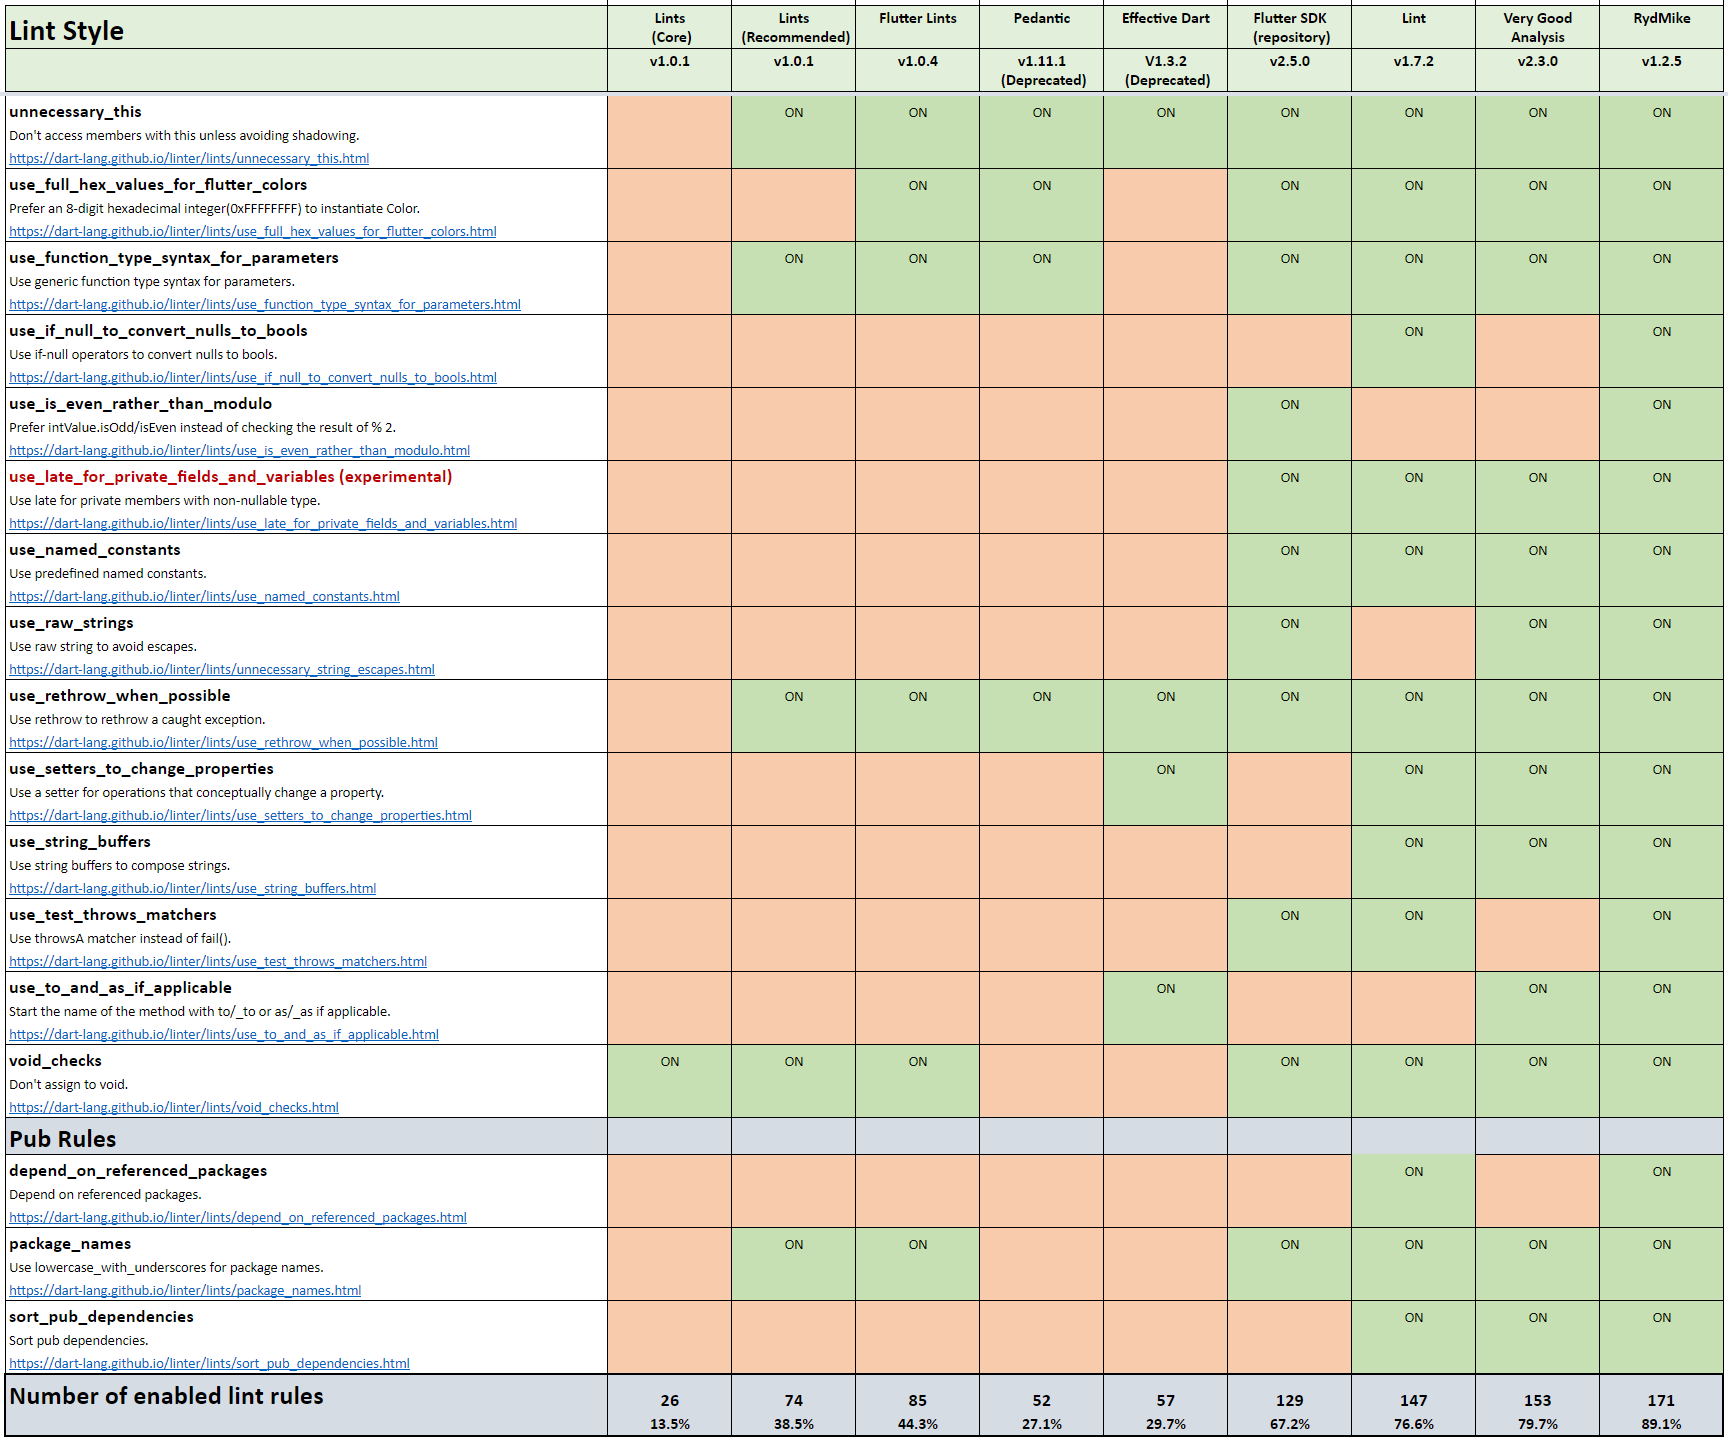
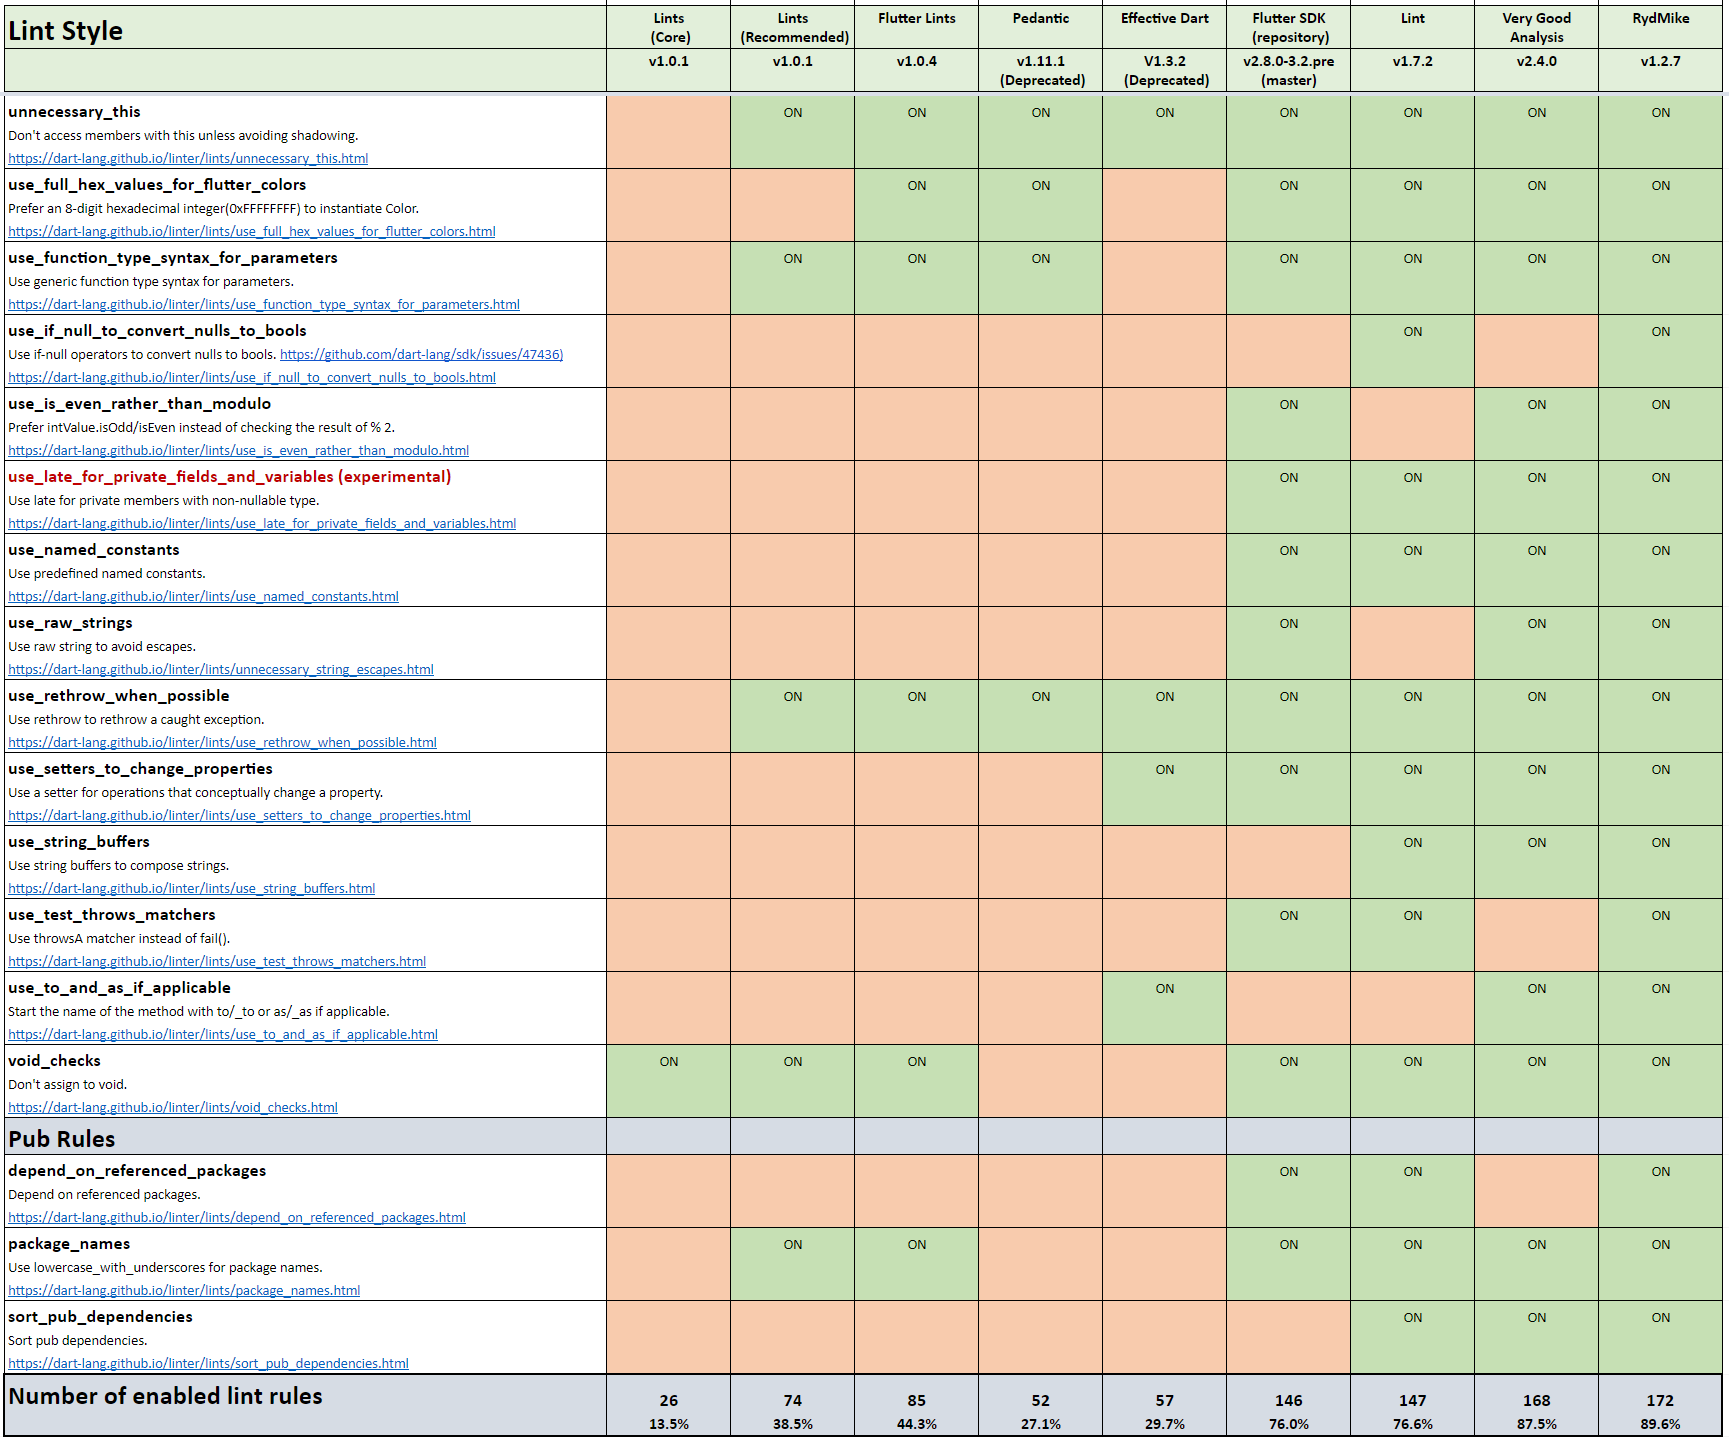
Linting blog update, color scheme page update

diff --git a/blog_flutter_linting.md b/blog_flutter_linting.md
@@ -2,7 +2,7 @@
 | [Talo](talo)                | [Grid](gridview)     | [Issues](issues)           | [Blog](blog)               |
 
 # Flutter Linting Comparison
-*(Published July 28, 2021, Updated September 10, 2021)*
+*(Published July 28, 2021, Updated November 23, 2021)*
 
 Dart and Flutter linting is important, if you have not used it before it is a good idea to start now.
 At the end of this article I also present a comparison of different popular lint packages and the
@@ -55,10 +55,15 @@ My `analysis_options.yaml` file starts like this:
 
 
 ```yaml
-# RydMike LINTER Preferences v1.2.5
-# Gist: https://gist.github.com/rydmike/fdb53ddd933c37d20e6f3188a936cd4c
-# Include and activate all lint rules, later below we disable the not used or desired ones.
-# For a comparison of all lint rules settings in rule style listed below, please see this
+# RydMike LINTER Preferences v1.2.7
+#
+# Get this file here: https://gist.github.com/rydmike/fdb53ddd933c37d20e6f3188a936cd4c
+#
+# We include and activate all lint rules, later below we disable the not used or desired ones.
+# You can find a list of all lint rules to put in your all_lint_rules.yaml file here:
+# https://dart-lang.github.io/linter/lints/options/options.html
+#
+# For a full comparison of all lint rules settings in rule styles listed below, please see this
 # sheet: https://docs.google.com/spreadsheets/d/1Nc1gFjmCOMubWZD7f2E4fLhWN7LYaOE__tsA7bf2NjA
 include: all_lint_rules.yaml
 analyzer:
@@ -263,7 +268,7 @@ then they really should be.
 ## Which Lint Package Should I Use?
 
 If I want to use a package, which lint package should I use?
-Answering this question recently got a lot easier. First, both the package
+Answering this question got a lot easier with Flutter 2.5. First, both the package
 [Effective Dart](https://pub.dev/packages/effective_dart) and [Pedantic](https://pub.dev/packages/pedantic)
 have been deprecated. For a new project I do not recommend them anymore. 
 Pedantic was from Google mostly for internal use. Despite its name, it was not very strict nor pedantic,
@@ -305,8 +310,8 @@ projects, there is no sense in recommending any other linter package than
 
 All that being said, as long as [Lint](https://pub.dev/packages/lint) or 
 [Very Good Analysis](https://pub.dev/packages/very_good_analysis) 
-have not been deprecated, and you are used to them, or already using them, or just prefer them, 
-they are still perfectly good choices as well. 
+have not been deprecated, and you are using them, or just prefer them, 
+they are both very solid choices as well. 
 
 They both enable more and even stricter lint rules than the new default **flutter_lints**. Both **lint** and 
 **very_good_analysis** use strong mode and disable implicits casts, and Very Good Analysis also
@@ -316,17 +321,23 @@ a wise and welcome addition.
 
 The **lint** package includes excellent reasoning documentation for its lint rule choices 
 in the source, allowing you to read and understand the author's rationale for the used
-choices. It also comes with a variant for packages, adding a few useful rules for
+choices. It also comes with a variant for packages, adding a few more useful rules for
 public packages.
 
-Out of packaged linters **very_good_analysis**, starting from version 2.3.0 enables 
-the most rules of the compared packaged linters. With 79.7% of available lint rules enabled, 
+Out of packaged linters **very_good_analysis**, in version 2.4.0 enables 
+the most rules of the compared packaged linters. With 87.5% of available lint rules enabled, 
 it is the most strict and "pedantic" of the compared packaged linters, at least
 if we exclude my own custom setup from the comparison. My personal choice for
-a packaged linter would be **very_good_analysis**, but that is because I like its very
-strict. The **lint** package is not far behind, with its recent 1.7.2 version 
-it is at 72.9% of rules enabled. Close call, and the differences are not big.
+a packaged linter would be **very_good_analysis**, but that is because I like it very
+strict. The **lint** package is not far behind, with its 1.7.2 version 
+it is at 72.9% of rules enabled.
 You can use my comparison table to compare them all and each rule setting.
+
+I also find it interesting to follow what lint rules the Flutter SDK repo uses.
+Recently there has been many new rules enabled in the Flutter SDK as well.
+In the previous version (1.4.0) of the comparison table from September 10, 2021, to the
+current one (1.5.0), the Flutter repo (master channel) has gone from 129 to 146 enabled
+lint rules.
 
 If you want to stay on top of your linting rule setup yourself, then do as I do. 
 Roll your own linting rule setup. Mostly I do this to use even stricter lint rules than current 
@@ -342,7 +353,7 @@ walk the narrow and strict path with [Very Good Analysis](https://pub.dev/packag
 or [Lint](https://pub.dev/packages/lint).
 
 If you don't care about linting and tuning it yourself, the really nice part is that a good 
-linting setup is now part of Flutter. Starting from version 2.5.0 you will 
+basic linting setup is now part of Flutter. Starting from version 2.5.0 you will 
 get an excellent rule set enabled by default for new projects. It is a really cool
 and a smart move by the Dart and Flutter teams to offer this. It means that eventually 
 all Flutter developers will use more strict lint rules by default, rules that will help 
@@ -354,20 +365,24 @@ What are the lint rule differences between all these packages? That is a **very*
 I guess I saved the most interesting part for last. I was very curious about this as well, so I went 
 through **all** the lint settings for the following lint packages and setups:
 
-| Lint style   | Used rules             |  % |
-| ----         | ----                   | ---- |
-|[Dart Core *(v1.0.1)*](https://pub.dev/packages/lint) | 26 | 13.5%|
-|[Dart Recommended *(v1.0.1)*](https://pub.dev/packages/lints) | 74 | 38.5% |    
-|[Flutter lints *(v1.0.4)*](https://pub.dev/packages/flutter_lints) | 85 | 44.3% |  
-|[Pedantic *(v1.11.1) (Deprecated)*](https://pub.dev/packages/pedantic) | 52 | 27.1% |
-|[Effective Dart *(v1.3.2) (Deprecated)*](https://pub.dev/packages/effective_dart) | 57 | 29.7% |
-|[Flutter SDK repository *(v2.5.0)*](https://github.com/flutter/flutter/blob/master/analysis_options.yaml) | 129 | 67.2% |
-|[Lint *(v1.7.2)*](https://pub.dev/packages/lint) | 147 | 76.6% |
-|[Very Good Analysis *(v2.3.0)*](https://pub.dev/packages/very_good_analysis) | 153 | 79.7% |
-|[RydMike - All ON, then turn a few OFF *(v1.2.5)*](https://gist.github.com/rydmike/fdb53ddd933c37d20e6f3188a936cd4c) | 171 | 89.1%|
-|[All LINT rules](https://dart-lang.github.io/linter/lints/options/options.html) | 192 | 100.0% |
+| Lint style   | Previous             |  % of rules | Used now | +/- | % of rules |
+| ----         | ----                   | ---- | ---- | ---- |  ---- |
+|[Dart Core *(v1.0.1)*](https://pub.dev/packages/lints) | 26 | 13.5%| 26 | 0 | 13.5% |
+|[Dart Recommended *(v1.0.1)*](https://pub.dev/packages/lints) | 74 | 38.5% | 74 | 0 | 38.5% |    
+|[Flutter lints *(v1.0.4)*](https://pub.dev/packages/flutter_lints) | 85 | 44.3% | 85 | 0 | 44.3 % | 
+|[Pedantic *(v1.11.1) (Deprecated)*](https://pub.dev/packages/pedantic) | 52 | 27.1% | 52 | 0 | 27.1% |
+|[Effective Dart *(v1.3.2) (Deprecated)*](https://pub.dev/packages/effective_dart) | 57 | 29.7% | 57 | 0 | 29.7% |
+|[Flutter SDK repository *(v2.8.0-3.2)*](https://github.com/flutter/flutter/blob/master/analysis_options.yaml) | 129 | 67.2% | 146 | +17 | 76.0% | 
+|[Lint *(v1.7.2)*](https://pub.dev/packages/lint) | 147 | 76.6% | 147 | 0 | 76.6% |
+|[Very Good Analysis *(v2.4.0)*](https://pub.dev/packages/very_good_analysis) | 153 | 79.7% | 168 | +15 | 87.5% |
+|[RydMike - All ON, then turn OFF some *(v1.2.7)*](https://gist.github.com/rydmike/fdb53ddd933c37d20e6f3188a936cd4c) | 171 | 89.1%| 172 | +1 | 89.6% |
+|[All LINT rules](https://dart-lang.github.io/linter/lints/options/options.html) | 192 | 100.0% | 192 | 0 | 100.0% |
 
-Enough talk, here is the comparison in a [**Google Sheet**](https://docs.google.com/spreadsheets/d/1Nc1gFjmCOMubWZD7f2E4fLhWN7LYaOE__tsA7bf2NjA), enjoy!
+The "previous" values refer to the number of enabled lint rules in comparison table version 1.4.0 from 
+September 10, 2021, and "used now" to the latest lint rules in comparison table, 
+version 1.5.0 updated November 23, 2021.
+
+Here is the full comparison in a [**Google Sheet**](https://docs.google.com/spreadsheets/d/1Nc1gFjmCOMubWZD7f2E4fLhWN7LYaOE__tsA7bf2NjA), enjoy!
 
 [<img src="https://rydmike.com/assets/lint_compare.png?raw=true" alt="lint_compare"/>](https://docs.google.com/spreadsheets/d/1Nc1gFjmCOMubWZD7f2E4fLhWN7LYaOE__tsA7bf2NjA)
 
@@ -375,4 +390,4 @@ Enough talk, here is the comparison in a [**Google Sheet**](https://docs.google.
 notice any, please let me know, and I will update it. You can find me on [Twitter](https://twitter.com/RydMike)*
 
 ---
-*(Page updated September 10, 2021)*
+*(Page updated November 23, 2021)*

diff --git a/colorscheme.md b/colorscheme.md
@@ -7,6 +7,24 @@
 surfaces. The created themes are based on the same concept as Flutter's **ColorScheme** based themes,
 but with a few interesting twists and additional features.
 
+> ### This article is based on FlexColorScheme V3
+> The documentation included in the readme for FlexColorScheme V4 package on 
+> [pub.dev](https://pub.dev/packages/flex_color_scheme)
+> contains similar and updated information for version 4. The features described here
+> are still valid for version 4, but it also has additional new features and
+> all its bundled examples have been updated. The links to the live examples further below
+> are to the FlexColorScheme version 3 examples. For links to version 4 examples please refer
+> to the package readme or use these links:
+> 
+> #### FlexColorScheme Version 4 Live Examples
+> [Example 1 - Basic Themes Usage](https://rydmike.com/flexcolorschemeV4Tut1/#/)  
+> [Example 2 - Custom Theme](https://rydmike.com/flexcolorschemeV4Tut2/#/)  
+> [Example 3 - Four Themes](https://rydmike.com/flexcolorschemeV4Tut3/#/)  
+> [Example 4 - All Themes](https://rydmike.com/flexcolorschemeV4Tut4/#/)  
+> [Example 5 - Themes Playground](https://rydmike.com/flexcolorschemeV4Tut5/#/)
+> 
+> This article will be updated later with newer version 4 information as well.
+
 **FlexColorScheme** is available on **pub.dev** as a [**Flutter package**](https://pub.dev/packages/flex_color_scheme).
 
 <img src="https://rydmike.com/assets_fcsv4/CollageSize50.png?raw=true" alt="ColorScheme Intro"/>
@@ -333,10 +351,10 @@ Below you will find all the light theme mode color schemes, with the scheme colo
 <img src="https://rydmike.com/assets/LightScheme030.png?raw=true" alt="light 30" width="200"/>
 <img src="https://rydmike.com/assets/LightScheme031.png?raw=true" alt="light 31" width="200"/>
 <img src="https://rydmike.com/assets/LightScheme032.png?raw=true" alt="light 32" width="200"/>
-<img src="https://rydmike.com/assets/LightScheme033.png?raw=true" alt="light 32" width="200"/>
-<img src="https://rydmike.com/assets/LightScheme034.png?raw=true" alt="light 32" width="200"/>
-<img src="https://rydmike.com/assets/LightScheme035.png?raw=true" alt="light 32" width="200"/>
-<img src="https://rydmike.com/assets/LightScheme036.png?raw=true" alt="light 32" width="200"/>
+<img src="https://rydmike.com/assets/LightScheme033.png?raw=true" alt="light 33" width="200"/>
+<img src="https://rydmike.com/assets/LightScheme034.png?raw=true" alt="light 34" width="200"/>
+<img src="https://rydmike.com/assets/LightScheme035.png?raw=true" alt="light 35" width="200"/>
+<img src="https://rydmike.com/assets/LightScheme036.png?raw=true" alt="light 36" width="200"/>
 
 ### Dark Mode Color Schemes
 
@@ -374,15 +392,15 @@ Below you will find all the dark theme mode color schemes, with the scheme color
 <img src="https://rydmike.com/assets/DarkScheme030.png?raw=true" alt="dark 30" width="200"/>
 <img src="https://rydmike.com/assets/DarkScheme031.png?raw=true" alt="dark 31" width="200"/>
 <img src="https://rydmike.com/assets/DarkScheme032.png?raw=true" alt="dark 32" width="200"/>
-<img src="https://rydmike.com/assets/DarkScheme033.png?raw=true" alt="dark 32" width="200"/>
-<img src="https://rydmike.com/assets/DarkScheme034.png?raw=true" alt="dark 32" width="200"/>
-<img src="https://rydmike.com/assets/DarkScheme035.png?raw=true" alt="dark 32" width="200"/>
-<img src="https://rydmike.com/assets/DarkScheme036.png?raw=true" alt="dark 32" width="200"/>
+<img src="https://rydmike.com/assets/DarkScheme033.png?raw=true" alt="dark 33" width="200"/>
+<img src="https://rydmike.com/assets/DarkScheme034.png?raw=true" alt="dark 34" width="200"/>
+<img src="https://rydmike.com/assets/DarkScheme035.png?raw=true" alt="dark 35" width="200"/>
+<img src="https://rydmike.com/assets/DarkScheme036.png?raw=true" alt="dark 36" width="200"/>
 
 ## Funky Color Scheme Names?
 
 So where do the funky scheme names come from? Like Mandy red and Hippie blue among others. I used the Flexfold
-demo app's custom theme mode, to design some of the color schemes in FlexColorScheme. While doing that, 
+demo app's custom theme mode, to design some color schemes in FlexColorScheme. While doing that, 
 [**FlexColorPicker**](https://rydmike.com/colorpicker) names the chosen color automatically.
 Sometimes the automatically assigned color names where just so hip, that I had to use them in the scheme names too.
 
@@ -393,5 +411,4 @@ head over to [**pub.dev and give FlexColorScheme**](https://pub.dev/packages/fle
 
 ---
 
-Page updated 20.11.2021   
-_Only added the new color schemes, the article is still based on V3 not new V4_
+Page updated 23.11.2021  

diff --git a/blog.md b/blog.md
@@ -3,15 +3,13 @@
 
 ## Flutter Santa's Blog
 
-I will start to write more about Flutter, but probably only as simple markup 
-files in this site. Well who knows, maybe I will make some cross posts on other
-sites too. We will see, but for now you can find Flutter Santa's rumblings here.
+I sometimes write blog like articles about Flutter and publish them here. 
+Who knows, maybe I will make some cross posts on other sites too, some rainy 
+day. We will see, but for now you can find Flutter Santa's rumblings here.
 
 Occasionally I also publish Flutter Gists that you can try in DartPad. The 
-Gists were typically made to present something that did not look quite right. 
-Sometimes they can be a Flutter example, snippet or a setup that I found useful
+Gists might be a Flutter example, snippet, issue or a setup that I found useful
 and wanted to share in short Blog like format, and also document it.
-
 This way I can find it myself when I need it again. Generally my more or less
 documented Flutter Gists can be found [here](https://gist.github.com/rydmike). 
 
@@ -25,7 +23,7 @@ Chill, peace and **Flutter** love to all of you! 💙
 *(Oct 26, 2021)*
 
 In this article I discuss challenges with the web center constrained layout in
-Flutter, and provide a deeper introduction and example on how to theme
+Flutter, and provide a deeper dive and example on how to theme
 Flutter applications. [[**Read more...**]](blog_layout_and_theming)
 
 [<img src="https://user-images.githubusercontent.com/39990307/138180367-17c1af54-880b-48ac-b7e6-61154f30c756.gif" width="300"/>](blog_layout_and_theming)
@@ -33,7 +31,7 @@ Flutter applications. [[**Read more...**]](blog_layout_and_theming)
 ---
 
 ## [Flutter Linting Comparison](blog_flutter_linting)
-*(Jul 28, 2021, Updated Sep 10, 2021)*
+*(Jul 28, 2021, Updated Nov 23, 2021)*
 
 Dart and Flutter linting is important, if you have not used it before it is a good idea to start now. 
 At the end of this article I also present a comparison of different popular lint packages and the 
@@ -59,4 +57,4 @@ You cannot wrap a Sliver with normal Padding in Flutter. [[**Read more..**]](blo
 [<img src="https://rydmike.com/assets/sliverpadding.png?raw=true" alt="Sliver padding" width="300"/>](blog_sliver_padding)
 
 ---
-Page updated Oct 26, 2021
+Page updated Nov 23, 2021
